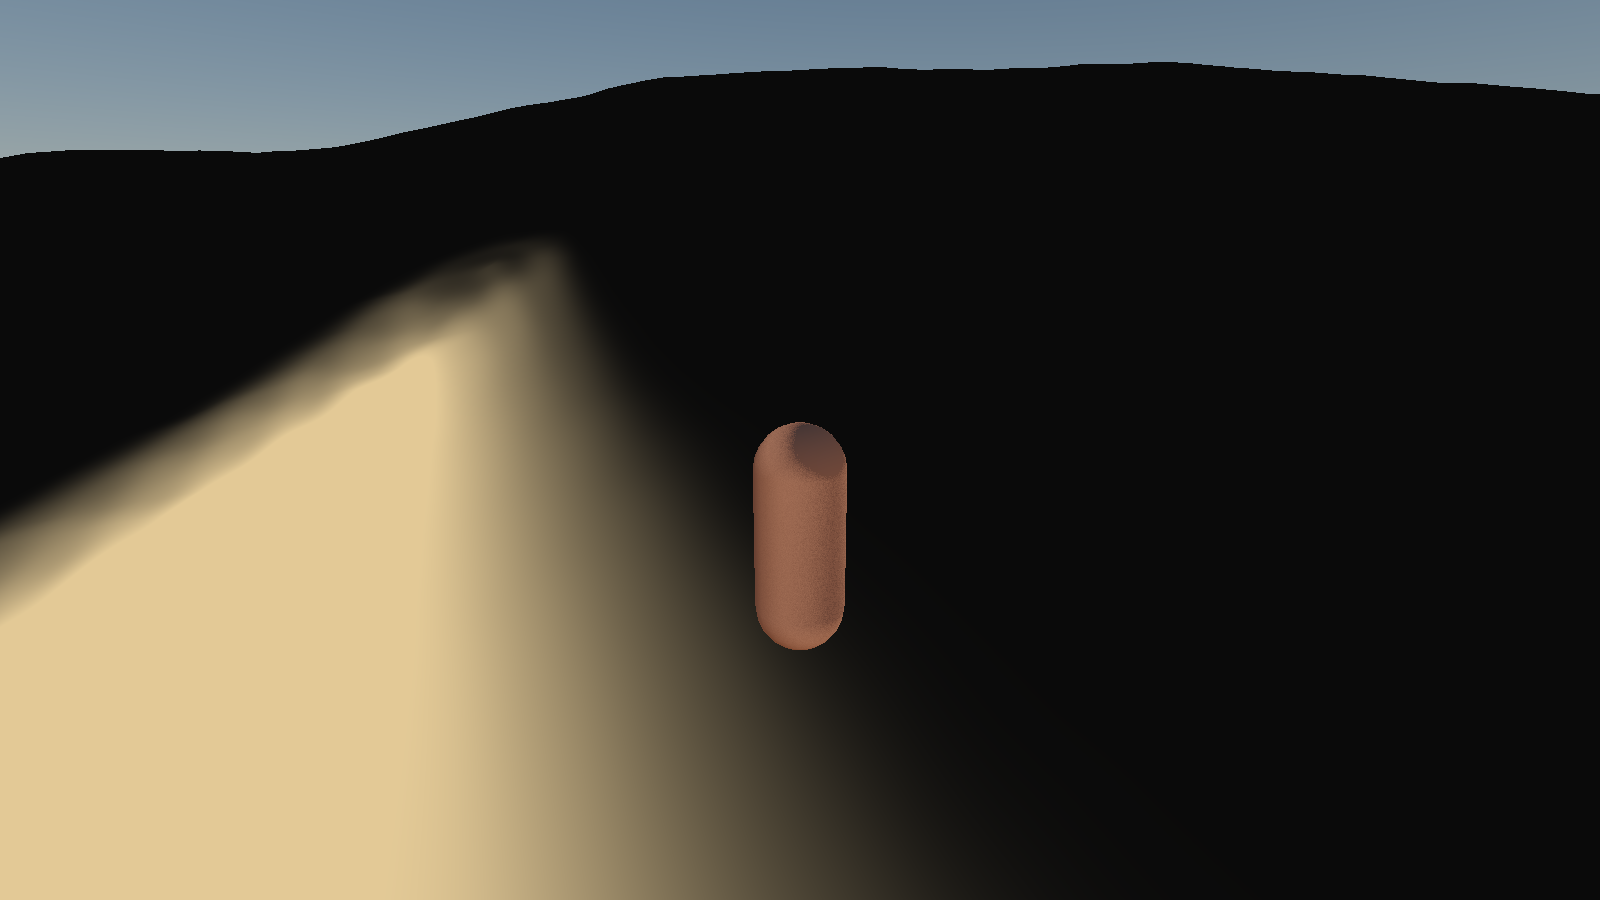
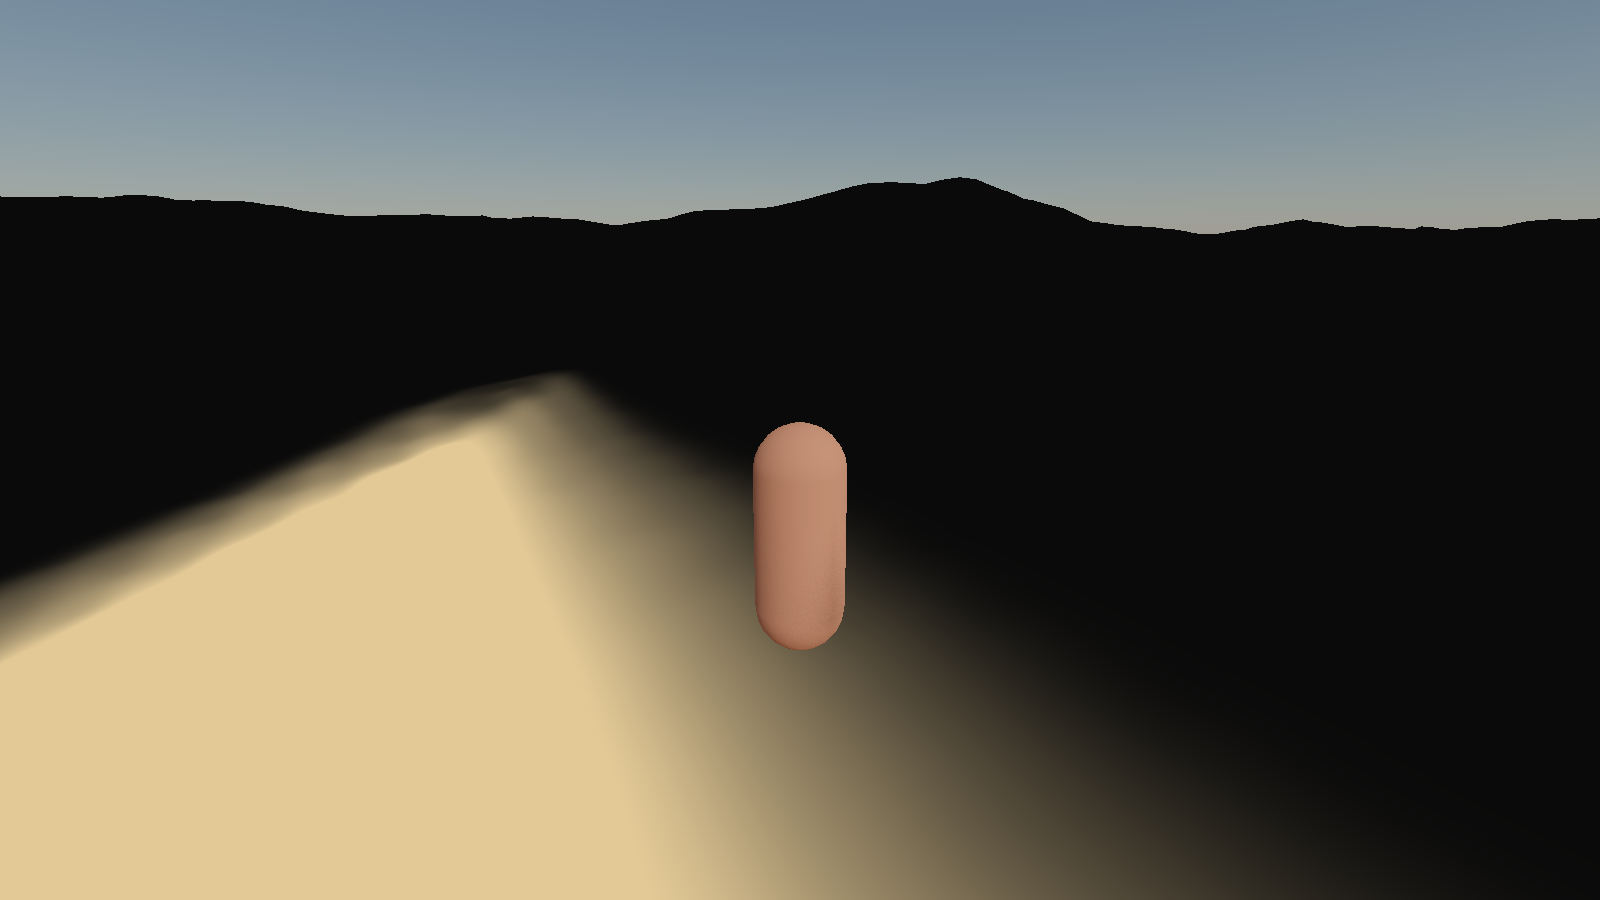
fix: the dunes were longitudinal, so the desert had no slip faces
sbAniso divided the ALONG-WIND coordinate by duneStretch, which elongates features
along the wind into ridges running parallel to it. Its own comment said it elongated
them "across the wind, which is what makes dune crests read as transverse ridges" -- and
a transverse crest runs perpendicular to the wind, so the elongation has to be across
it. The code did the opposite of what it documented.

This survived four phases because it is invisible by eye: a field of long sandy ridges
looks like a dune field whichever way the crests run. It only surfaced because Phase 5
needed to know how steep a lee face gets and measured instead of assuming, and found
the desert was the FLATTEST of the three biomes -- 3.5 degrees at the median and 21 at
the very steepest, over the whole field, with no slip face anywhere in it. That is the
wrong way round for the one biome that is supposed to be made of dunes, and the factor
was the 4.2 stretch dividing every along-wind slope.

Dividing the correct component, with no change to any registry number:

  desert   p50 3.5 -> 9.4 deg,  p90 8.1 -> 19.4,  max 21.1 -> 36.1
  snow     p50 5.7 -> 7.9 deg,  max 58.9 -> 60.3

36 degrees is past sand's 34 degree repose, so slip faces exist now and Phase 5's
migration has something to migrate. I had first reached for duneAmp and damping; those
edits are reverted, because the terrain numbers were never the problem.

air.separation re-derived against the new distribution: 0.4 sits between p90 and p97 in
[…]

diff --git a/src/core/settings.ts b/src/core/settings.ts
@@ -162,7 +162,7 @@ export const SCHEMA = {
     // world.windBearing say how hard and from where; these say what the ground does to it.
     "air.maxSpeed": num({ group: "Air", label: "Wind speed at full", def: 18, min: 0, max: 40, step: 0.5, unit: "m/s", hint: "What world.windStrength = 1 means in metres per second." }),
     "air.speedup": num({ group: "Air", label: "Slope speed-up", def: 1.2, min: 0, max: 4, step: 0.05, hint: "How much a windward face accelerates the flow. This is the term that strips a stoss face and fills the trough, so it is what actually migrates a dune." }),
-    "air.separation": num({ group: "Air", label: "Separation slope", def: 0.18, min: 0.02, max: 2, step: 0.01, hint: "Lee slope at which the flow fully detaches, as a gradient. Measured against this terrain by scripts/checkWind.mjs, not taken from a textbook: 0.18 is the 97th percentile of downwind-descending slope, so the bubble is the steepest few percent of lee faces. Detachment begins at half of it." }),
+    "air.separation": num({ group: "Air", label: "Separation slope", def: 0.4, min: 0.02, max: 2, step: 0.01, hint: "Lee slope at which the flow fully detaches, as a gradient. Measured against this terrain by scripts/checkWind.mjs rather than taken from a textbook: 0.4 sits between the 90th and 97th percentile in both snow and desert, so the bubble is the slip faces and not the whole downwind world. Detachment begins at half of it." }),
     "airborne.threshold": num({ group: "Air", label: "Fluid threshold", def: 5, min: 0.5, max: 25, step: 0.5, unit: "m/s", hint: "Wind speed at which material starts to move. Below it nothing is picked up however long you wait — which is why a still day leaves a dune alone." }),
     "airborne.liftRate": num({ group: "Air", label: "Lift rate", def: 1.4, min: 0, max: 8, step: 0.05, hint: "How fast loose material past liftThreshold leaves the ground where the shear is high enough. Scaled per element by windSusceptibility." }),
     "airborne.settleRate": num({ group: "Air", label: "Settle rate", def: 2.2, min: 0, max: 12, step: 0.1, hint: "How fast suspended material drops out where the flow has slowed or separated. This is what builds a slip face." }),

diff --git a/README.md b/README.md
@@ -111,6 +111,15 @@ between "builds" and "the driver will accept this".
   Jacobian. That is what allows the fBm to *damp its own detail by slope*, which is
   the single largest contributor to the result reading as landform rather than as
   noise, and it gives normals for free.
+- **The dunes were longitudinal for four phases.** `sbAniso` divided the *along-wind*
+  coordinate by `duneStretch`, elongating features along the wind into ridges running
+  parallel to it — while its own comment said it made "transverse ridges". A transverse
+  crest runs perpendicular to the wind, so the elongation has to be across it. The bug
+  was invisible by eye (a dune field looks like a dune field either way) and only showed
+  up when Phase 5 measured the slope distribution and found the desert was the *flattest*
+  of the three biomes: 3.5° at the median, 21° at the very steepest, with no slip face
+  anywhere. Dividing the correct component gives 9.4° and 36.1° — past sand's 34° repose
+  — with no change to a single registry number. See [shots/phase1-desert-dunes.png](shots/phase1-desert-dunes.png).
 - **One heightfield function.** [heightfield.wgsl](src/shaders/lib/heightfield.wgsl)
   is the same construction for all three biomes — swell, wind-sheared dunes, drifts,
   ridged levees, outcrops, channels — differing only by the `TerrainDef` numbers in
